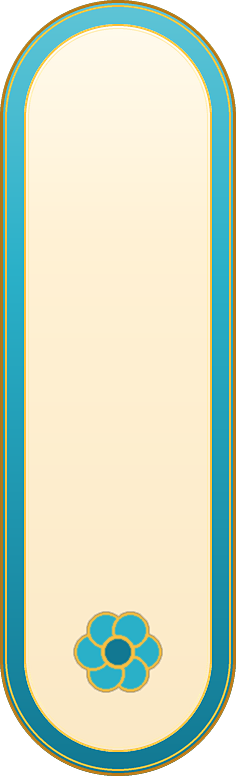
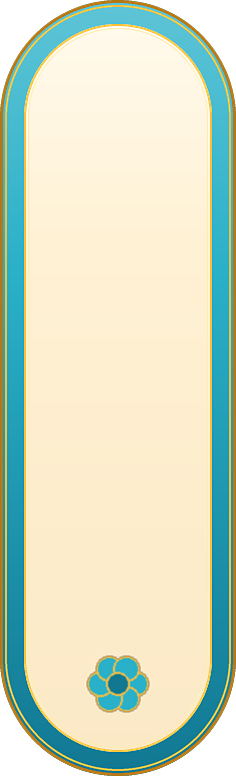
polish(ui): a tool button that reads, and a rail foot the buttons do not stand in
The tools' own pictures already carry a dark blue disc, so the extra ivory plate
under them was hidden and pointless: the orb is lighter now and the picture is
larger, which is the contrast the reference gets from a light glyph. The flower
moves down to the foot of the rail, clear of the two exits, and the gold ring on
the orb is wider and warmer.

Changed region(s): [[0.2966, 0.7732, 0.7119, 0.9278]]

diff --git a/godot-port/tools/import_plate_art.py b/godot-port/tools/import_plate_art.py
@@ -267,8 +267,11 @@ def build_rail() -> Image.Image:
     band.alpha_composite(face, (margin, margin))
 
     # The foot: a flower that overhangs the band, drawn last so it sits on top of the frame.
-    foot = _ornament((width, width), (width // 2, width // 2), int(width * 0.17))
-    band.alpha_composite(foot, (0, height - width - 6))
+    # The flower sits on the foot of the rail, below the two exit buttons: any higher and the buttons
+    # are planted in the middle of it.
+    foot_size = width
+    foot = _ornament((foot_size, foot_size), (foot_size // 2, foot_size // 2), int(width * 0.12))
+    band.alpha_composite(foot, (0, height - foot_size + 26))
     return band.filter(ImageFilter.UnsharpMask(radius=1.2, percent=40, threshold=2))
 
 
@@ -325,10 +328,10 @@ def build_round_plate(name: str, size: int) -> Image.Image:
         # A metal band, not a pale halo: the ring only occupies the outer eighth of the plate, so the
         # gold lives there and the gradient runs across that band alone.
         ring_outer = radius
-        ring_inner = radius * 0.78
+        ring_inner = radius * 0.70
         for step in range(int(ring_inner), int(ring_outer)):
             t = max(0.0, min(1.0, (step - ring_inner) / max(1.0, ring_outer - ring_inner)))
-            colour = _mix((255, 226, 150), (150, 96, 18), t ** 0.8)
+            colour = _mix((255, 232, 162), (156, 100, 20), t ** 0.55)
             draw.ellipse((step, step, size - 1 - step, size - 1 - step), outline=colour + (255,))
         draw.ellipse((int(ring_inner) - 2, int(ring_inner) - 2, size - 1 - int(ring_inner) + 2,
                       size - 1 - int(ring_inner) + 2), outline=(90, 56, 10, 210), width=2)
@@ -342,8 +345,10 @@ def build_round_plate(name: str, size: int) -> Image.Image:
             t = 1.0 - step / half  # 0 at the rim, 1 at the centre
             # Royal blue with a turquoise rim light: the reference's boosters are blue buttons, and the
             # turquoise belongs to the frame around them.
+            # Light at the top, royal at the bottom: the tools' own pictures are a dark blue disc with
+            # a gold glyph, and dark-on-dark is why five tools read as five smudges.
             paint.ellipse((half - step, half - step, half + step, half + step),
-                          fill=_mix(ROYAL_LIGHT, ROYAL_DARK, t) + (255,))
+                          fill=_mix((126, 190, 246), ROYAL, t ** 1.2) + (255,))
         # One small, sharp highlight and one thin rim light at the bottom: a big soft blob in the
         # middle of the sphere reads as a smudge on a blue marble.
         shine = Image.new("RGBA", (sphere_size, sphere_size), (0, 0, 0, 0))
